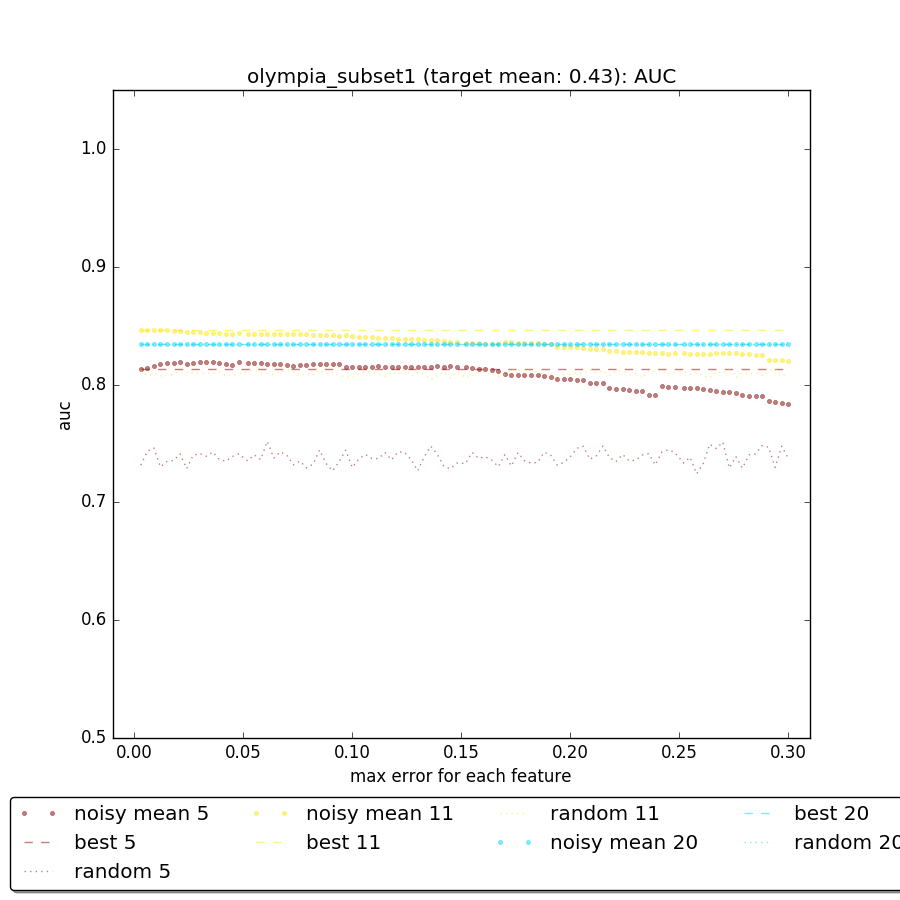
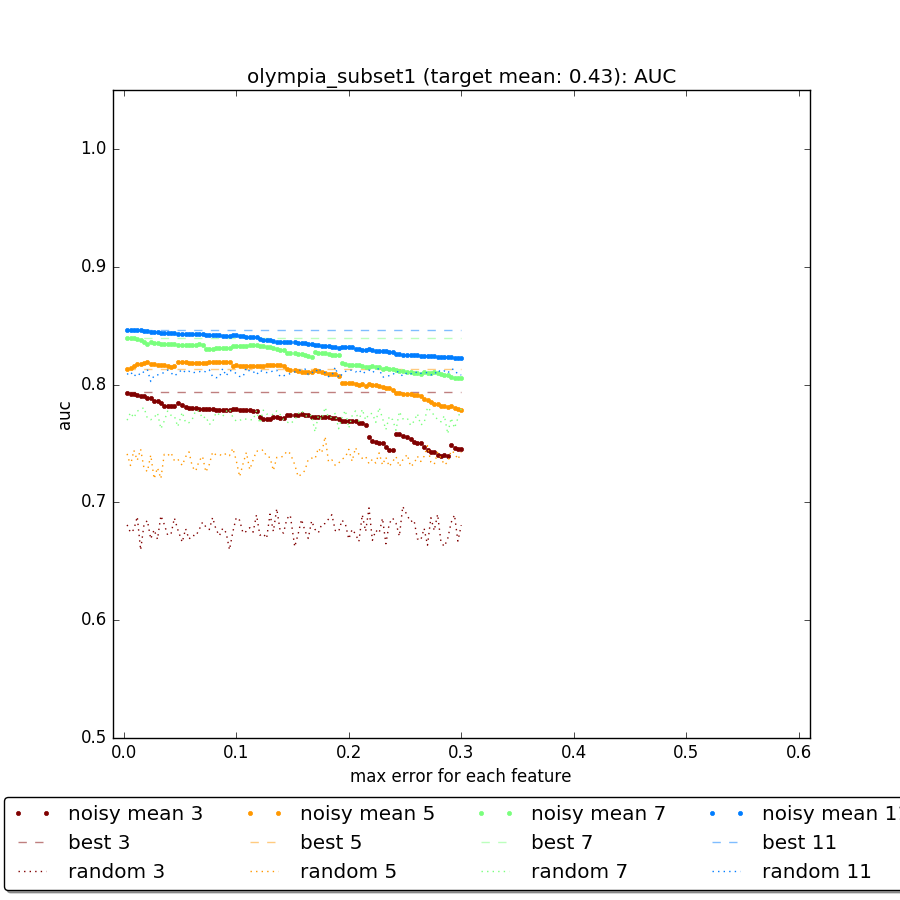
extending analysis olympia till error_rate=0.6

diff --git a/analysis_noisy_means_drop.py b/analysis_noisy_means_drop.py
@@ -38,11 +38,12 @@ def analysis_general(dataset_name, N_features, N_samples, target):
     :param N_samples:
     :param target:
     :return:
-    """
-    path = "datasets/artificial/{}.csv".format(dataset_name)
-    df = CSFSLoader().load_dataset(path)
-
-    Parallel(n_jobs=8)(delayed(_conduct_analysis)(df, target, mean_error, N_features, N_samples, dataset_name) for mean_error in np.linspace(0.0, 0.6, 200))
+    # """
+    # path = "datasets/artificial/{}.csv".format(dataset_name)
+    # df = CSFSLoader().load_dataset(path)
+    #
+    # Parallel(n_jobs=8)(delayed(_conduct_analysis)(df, target, mean_error, N_features, N_samples, dataset_name) for mean_error in np.linspace(0.0, 0.6, 200))
+    pass
 
 def get_result_data(n_features, dataset_name, key, N_samples):
     """
@@ -106,13 +107,13 @@ def visualise_results(dataset_name, dataset_class, N_features, N_samples, fit_cu
         color = cmap(float(i)/len(N_features))
 
         x,y = extract_x_y(results_noisy, n_f, start_lim=0)
-        ax.plot(x, y, '.', color=color, alpha=0.5, label='noisy mean {}'.format(n_f))
+        ax.plot(x, y, '.', color=color, alpha=1, label='noisy mean {}'.format(n_f))
 
         x_best, y_best = extract_x_y(results_best, n_f, start_lim=0)
-        ax.plot(x_best, y_best, '--', color=color, alpha=0.5, label='best {}'.format(n_f))
+        ax.plot(x_best, y_best, '--', color=color, alpha=.5, label='best {}'.format(n_f))
 
         x_rand, y_rand = extract_x_y(results_rand, n_f, start_lim=0)
-        ax.plot(x_rand, y_rand, ':', color=color, alpha=0.5, label='random {}'.format(n_f))
+        ax.plot(x_rand, y_rand, ':', color=color, alpha=1, label='random {}'.format(n_f))
 
         if fit_curve:
             x,y = extract_x_y(results_noisy, n_f, start_lim=start_lim)
@@ -141,7 +142,7 @@ def visualise_results(dataset_name, dataset_class, N_features, N_samples, fit_cu
         return "n.a."
 
     plt.title('{} (target mean: {}): AUC'.format(dataset_name, get_target_mean()))
-    plt.xlim([-.01, .31])
+    plt.xlim([-.01, .61])
     plt.ylim([0.5, 1.05])
     plt.xlabel('max error for each feature')
     plt.ylabel('auc')

diff --git a/analysis_olympia.py b/analysis_olympia.py
@@ -21,9 +21,10 @@ def do_analysis():
     path = "datasets/olympia/{}.csv".format(dataset_name)
     df = CSFSLoader().load_dataset(path)
 
-    Parallel(n_jobs=8)(delayed(_conduct_analysis)(df, target, std, N_features, N_samples, dataset_name) for std in np.linspace(0.00001, .3, 100))
+    Parallel(n_jobs=8)(delayed(_conduct_analysis)(df, target, std, N_features, N_samples, dataset_name) for std in np.linspace(0.00001, .6, 200))
 
 def evaluate():
+    N_features = [3,5,7,11]
     visualise_results(dataset_name=dataset_name, N_features=N_features, show_plot=False, N_samples=N_samples, dataset_class='olympia', target=target)
 
 
@@ -85,11 +86,11 @@ def explore_pickle():
         print(data['best_noisy_mean_features_count'])
         print()
 
-do_analysis()
-# evaluate()
+# do_analysis()
+evaluate()
 
 # visualize_result()
 # explore()
 # extract_prefix()
 # prepare_selected_dataset()
-# explore_pickle()
+explore_pickle()
